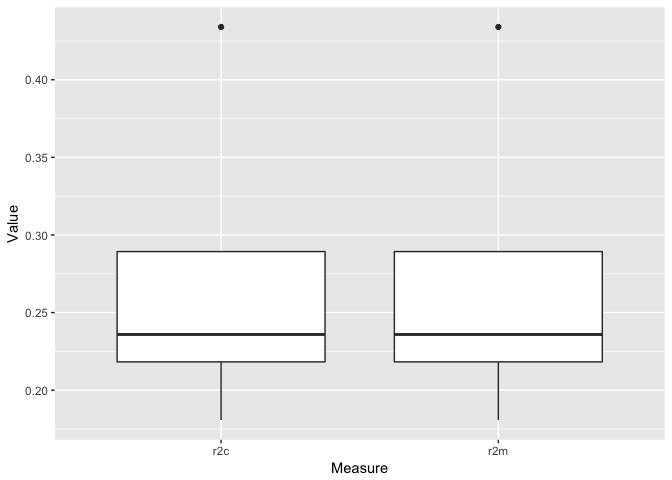
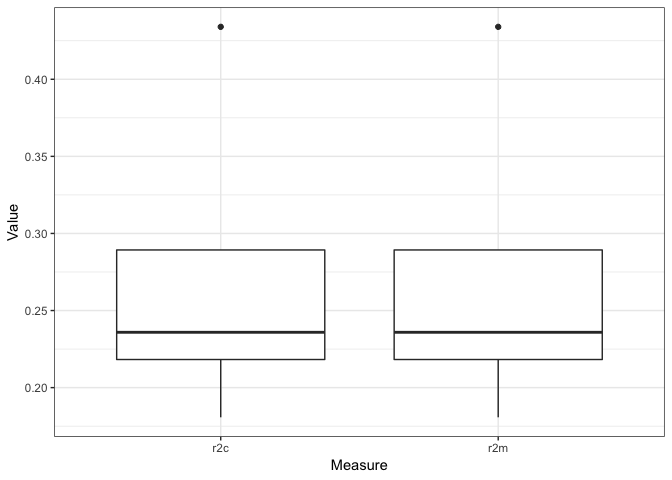
Adds theme_bw() to readme plots

diff --git a/README.md b/README.md
@@ -40,6 +40,7 @@ library(cvms)
 library(groupdata2) # fold()
 library(knitr) # kable()
 library(dplyr) # %>% arrange()
+library(ggplot2)
 ```
 
 Load data
@@ -102,12 +103,11 @@ CV1 <- cross_validate(data, "score~diagnosis",
 # Show results
 CV1
 #> # A tibble: 1 x 14
-#>       RMSE       r2m       r2c      AIC     AICc      BIC Folds
-#>      <dbl>     <dbl>     <dbl>    <dbl>    <dbl>    <dbl> <int>
-#> 1 16.66528 0.2716369 0.2716369 194.6045 195.9104 197.9384     4
-#> # ... with 7 more variables: `Convergence Warnings` <int>, Family <chr>,
-#> #   Link <chr>, Results <list>, Coefficients <list>, Dependent <chr>,
-#> #   Fixed <chr>
+#>    RMSE   r2m   r2c   AIC  AICc   BIC Folds `Convergence Wa… Family Link 
+#>   <dbl> <dbl> <dbl> <dbl> <dbl> <dbl> <int>            <int> <chr>  <chr>
+#> 1  16.7 0.272 0.272  195.  196.  198.     4                0 gauss… iden…
+#> # … with 4 more variables: Results <list>, Coefficients <list>,
+#> #   Dependent <chr>, Fixed <chr>
 ```
 
 ### Binomial
@@ -120,10 +120,10 @@ CV2 <- cross_validate(data, "diagnosis~score",
 # Show results
 CV2
 #> # A tibble: 1 x 21
-#>         AUC `Lower CI` `Upper CI`     Kappa Sensitivity Specificity
-#>       <dbl>      <dbl>      <dbl>     <dbl>       <dbl>       <dbl>
-#> 1 0.7476852  0.5621978  0.9331726 0.4285714   0.5833333   0.8333333
-#> # ... with 15 more variables: `Pos Pred Value` <dbl>, `Neg Pred
+#>     AUC `Lower CI` `Upper CI` Kappa Sensitivity Specificity
+#>   <dbl>      <dbl>      <dbl> <dbl>       <dbl>       <dbl>
+#> 1 0.748      0.562      0.933 0.429       0.583       0.833
+#> # … with 15 more variables: `Pos Pred Value` <dbl>, `Neg Pred
 #> #   Value` <dbl>, F1 <dbl>, Prevalence <dbl>, `Detection Rate` <dbl>,
 #> #   `Detection Prevalence` <dbl>, `Balanced Accuracy` <dbl>, Folds <int>,
 #> #   `Convergence Warnings` <dbl>, Family <chr>, Link <chr>,
@@ -151,13 +151,12 @@ CV3 <- cross_validate(data, models,
 # Show results
 CV3
 #> # A tibble: 2 x 14
-#>       RMSE         r2m         r2c      AIC     AICc      BIC Folds
-#>      <dbl>       <dbl>       <dbl>    <dbl>    <dbl>    <dbl> <int>
-#> 1 16.66528 0.271636894 0.271636894 194.6045 195.9104 197.9384     4
-#> 2 19.60274 0.004273726 0.004273726 202.0597 203.3656 205.3935     4
-#> # ... with 7 more variables: `Convergence Warnings` <int>, Family <chr>,
-#> #   Link <chr>, Results <list>, Coefficients <list>, Dependent <chr>,
-#> #   Fixed <chr>
+#>    RMSE     r2m     r2c   AIC  AICc   BIC Folds `Convergence Wa… Family
+#>   <dbl>   <dbl>   <dbl> <dbl> <dbl> <dbl> <int>            <int> <chr> 
+#> 1  16.7 0.272   0.272    195.  196.  198.     4                0 gauss…
+#> 2  19.6 0.00427 0.00427  202.  203.  205.     4                0 gauss…
+#> # … with 5 more variables: Link <chr>, Results <list>,
+#> #   Coefficients <list>, Dependent <chr>, Fixed <chr>
 ```
 
 ### Cross-validate mixed effects models
@@ -171,13 +170,12 @@ CV4 <- cross_validate(data, mixed_models,
 # Show results
 CV4
 #> # A tibble: 2 x 15
-#>        RMSE         r2m       r2c      AIC     AICc      BIC Folds
-#>       <dbl>       <dbl>     <dbl>    <dbl>    <dbl>    <dbl> <int>
-#> 1  8.652038 0.289662640 0.8096362 175.2741 177.5768 179.7193     4
-#> 2 13.735577 0.004672412 0.4879946 195.2054 197.5080 199.6505     4
-#> # ... with 8 more variables: `Convergence Warnings` <int>, Family <chr>,
-#> #   Link <chr>, Results <list>, Coefficients <list>, Dependent <chr>,
-#> #   Fixed <chr>, Random <chr>
+#>    RMSE     r2m   r2c   AIC  AICc   BIC Folds `Convergence Wa… Family Link 
+#>   <dbl>   <dbl> <dbl> <dbl> <dbl> <dbl> <int>            <int> <chr>  <chr>
+#> 1  8.65 0.290   0.810  175.  178.  180.     4                0 gauss… iden…
+#> 2 13.7  0.00467 0.488  195.  198.  200.     4                0 gauss… iden…
+#> # … with 5 more variables: Results <list>, Coefficients <list>,
+#> #   Dependent <chr>, Fixed <chr>, Random <chr>
 ```
 
 Plot results
@@ -186,25 +184,29 @@ Plot results
 ### Gaussian
 
 ``` r
-cv_plot(CV1, type = "RMSE")
+cv_plot(CV1, type = "RMSE") +
+  theme_bw()
 ```
 
 ![](README-unnamed-chunk-10-1.png)
 
 ``` r
-cv_plot(CV1, type = "r2")
+cv_plot(CV1, type = "r2") +
+  theme_bw()
 ```
 
 ![](README-unnamed-chunk-10-2.png)
 
 ``` r
-cv_plot(CV1, type = "IC")
+cv_plot(CV1, type = "IC") +
+  theme_bw()
 ```
 
 ![](README-unnamed-chunk-10-3.png)
 
 ``` r
-cv_plot(CV1, type = "coefficients")
+cv_plot(CV1, type = "coefficients") +
+  theme_bw()
 ```
 
 ![](README-unnamed-chunk-10-4.png)
@@ -212,7 +214,8 @@ cv_plot(CV1, type = "coefficients")
 ### Binomial
 
 ``` r
-cv_plot(CV2, type = "ROC")
+cv_plot(CV2, type = "ROC") +
+  theme_bw()
 ```
 
 ![](README-unnamed-chunk-11-1.png)
